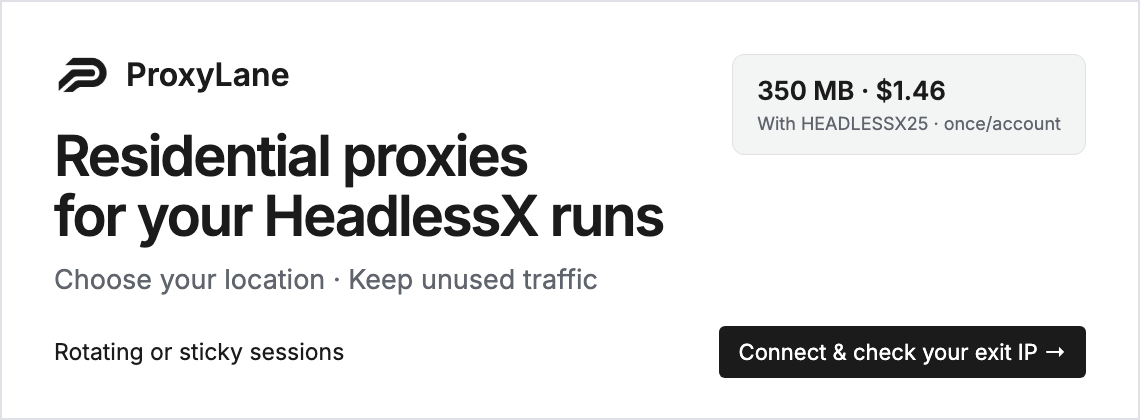
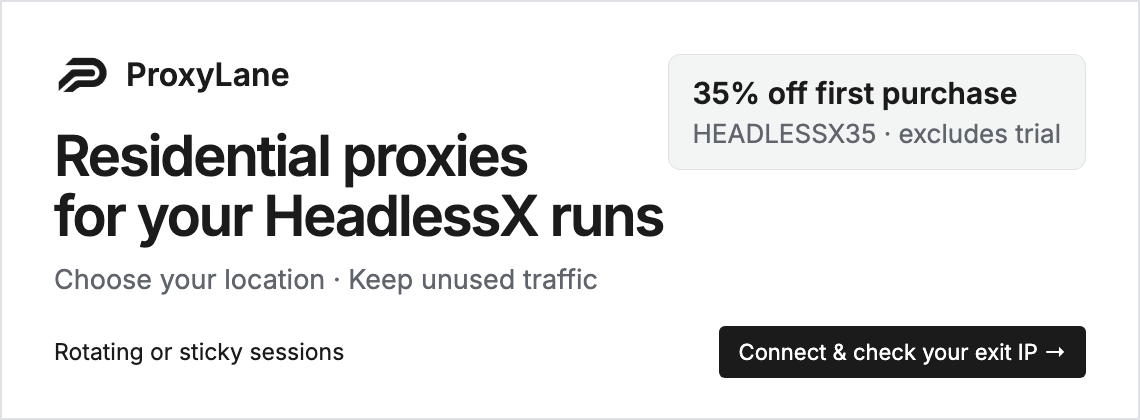
docs: focus HeadlessX offer on first package with 35 percent off

Changed region(s): [[0.5833, 0.2786, 0.9518, 0.3405], [0.5833, 0.1857, 0.8904, 0.2476]]

diff --git a/sponsor-kit/proxylane/banner.html b/sponsor-kit/proxylane/banner.html
@@ -1,1 +1,1 @@
-<!doctype html><html lang="en"><meta charset="utf-8"><style>@font-face{font-family:Inter;src:url(inter-latin.woff2)}*{box-sizing:border-box}body{margin:0;background:#fff;color:#1b1b1b;font-family:Inter,sans-serif}.banner{width:1140px;height:420px;border:2px solid #e0e1e6;padding:44px 52px;position:relative}.brand{display:flex;align-items:center;gap:16px;font-size:32px;font-weight:600}.brand img{width:56px;height:56px;object-fit:contain}h1{font-size:56px;line-height:1.08;letter-spacing:-2px;font-weight:600;margin:24px 0 16px}.sub{font-size:27px;color:#60646c}.offer{position:absolute;right:52px;top:52px;background:#f3f4f4;border:1px solid #e0e1e6;border-radius:12px;padding:20px 24px;font-size:26px;font-weight:600}.offer small{display:block;font-size:18px;font-weight:400;color:#60646c;margin-top:7px}.bottom{display:flex;justify-content:space-between;align-items:center;margin-top:30px;font-size:23px}.cta{font-size:22px;border-radius:6px;padding:13px 20px;background:#1b1b1b;color:#fff}</style><div class="banner"><div class="brand"><img src="proxylane-square-icon.png" alt="">ProxyLane</div><div class="offer">350 MB · $1.46<small>With HEADLESSX25 · once/account</small></div><h1>Residential proxies<br>for your HeadlessX runs</h1><div class="sub">Choose your location · Keep unused traffic</div><div class="bottom"><span>Rotating or sticky sessions</span><span class="cta">Connect &amp; check your exit IP →</span></div></div></html>
+<!doctype html><html lang="en"><meta charset="utf-8"><style>@font-face{font-family:Inter;src:url(inter-latin.woff2)}*{box-sizing:border-box}body{margin:0;background:#fff;color:#1b1b1b;font-family:Inter,sans-serif}.banner{width:1140px;height:420px;border:2px solid #e0e1e6;padding:44px 52px;position:relative}.brand{display:flex;align-items:center;gap:16px;font-size:32px;font-weight:600}.brand img{width:56px;height:56px;object-fit:contain}h1{font-size:56px;line-height:1.08;letter-spacing:-2px;font-weight:600;margin:24px 0 16px}.sub{font-size:27px;color:#60646c}.offer{position:absolute;right:52px;top:52px;background:#f3f4f4;border:1px solid #e0e1e6;border-radius:12px;padding:20px 24px;font-size:30px;font-weight:600}.offer small{display:block;font-size:26px;font-weight:400;color:#60646c;margin-top:7px}.bottom{display:flex;justify-content:space-between;align-items:center;margin-top:30px;font-size:23px}.cta{font-size:22px;border-radius:6px;padding:13px 20px;background:#1b1b1b;color:#fff}</style><div class="banner"><div class="brand"><img src="proxylane-square-icon.png" alt="">ProxyLane</div><div class="offer">35% off first purchase<small>HEADLESSX35 · excludes trial</small></div><h1>Residential proxies<br>for your HeadlessX runs</h1><div class="sub">Choose your location · Keep unused traffic</div><div class="bottom"><span>Rotating or sticky sessions</span><span class="cta">Connect &amp; check your exit IP →</span></div></div></html>

diff --git a/apps/web/src/components/settings/ProxyLaneProxyCallout.tsx b/apps/web/src/components/settings/ProxyLaneProxyCallout.tsx
@@ -53,16 +53,14 @@ export function ProxyLaneProxyCallout() {
           <div className="pr-6 text-[11px] font-semibold uppercase tracking-wider text-slate-500">
             Sponsored · ProxyLane
           </div>
-          <h3 className="mt-1 text-base font-semibold text-slate-900">
-            Need a residential endpoint for this run?
-          </h3>
+          <h3 className="mt-1 text-base font-semibold text-slate-900">Need a residential proxy?</h3>
           <p className="mt-1 text-sm leading-6 text-slate-600">
-            Test a location-specific request or a sticky browser session. Start with 350 MB for
-            $1.95; unused traffic does not expire.
+            Choose a location for new browser sessions. Confirm availability before buying; unused
+            traffic does not expire.
           </p>
           <p className="mt-2 text-xs leading-5 text-slate-600">
-            <strong>HEADLESSX25</strong>: 25% off one purchase, including trial ($1.46). Once per
-            account; using it on trial uses the discount.
+            <strong>HEADLESSX35</strong>: 35% off the first non-trial purchase. Once per account; no
+            trial required.
           </p>
           <div className="mt-3 flex flex-wrap items-center gap-x-5 gap-y-3 text-sm font-semibold">
             <a
@@ -71,7 +69,7 @@ export function ProxyLaneProxyCallout() {
               rel="sponsored noopener noreferrer"
               className="inline-flex items-center gap-1 text-slate-900 underline underline-offset-4"
             >
-              View paid trial <HugeiconsIcon icon={LinkSquare01Icon} size={14} />
+              View packages <HugeiconsIcon icon={LinkSquare01Icon} size={14} />
             </a>
             <a
               href={GUIDE_URL}

diff --git a/docs/proxylane.md b/docs/proxylane.md
@@ -1,8 +1,8 @@
 # How to connect ProxyLane to HeadlessX
 
-Set an authenticated HTTP endpoint in **Settings → Proxy**, save it, then verify the exit IP through HeadlessX's Website operator. The setting affects new Camoufox browser sessions globally. Start on a separate test instance: saving restarts the shared browser and can interrupt work.
+Set an authenticated HTTP endpoint in **Settings → Proxy**, save it, then verify the exit IP through HeadlessX's Website operator. The setting affects new Camoufox browser sessions globally. Use an already isolated test instance, or an agreed maintenance window: saving restarts the shared browser and can interrupt work.
 
-## Before you start
+## Before starting
 
 - A running [HeadlessX v2.1.2 instance](https://headlessx.saify.me/docs/self-hosting/overview) with its browser installed and access to Settings.
 - A [ProxyLane account](https://proxylane.dev/register) with paid traffic and generated HTTP credentials.
@@ -12,7 +12,7 @@ Use the dashboard steps without writing code. The optional API check assumes bas
 
 ## 1. Generate the connection
 
-Open [Residential proxies](https://proxylane.dev/dashboard/proxies). Choose the required country; leave narrower filters at **Any** unless needed. City and ISP choices depend on availability.
+Before paying, [confirm the required location is available](https://t.me/proxylane_support). Open [Residential proxies](https://proxylane.dev/dashboard/proxies). Choose the required country; leave narrower filters at **Any** unless needed. City and ISP choices depend on availability.
 
 Choose **Keep the same IP** for this initial check. Under **Advanced settings**, select **HTTP / HTTPS** and set a session name, such as `headlessxtest`. Click **Generate connection**. Open **Connection details** for Host, Port, Username and Password, or use **Copy connection** for the complete endpoint.
 
@@ -35,7 +35,7 @@ Use HTTP authentication for this integration. The Protocol control lists SOCKS o
 
 Open **Website** in HeadlessX. Use the JavaScript-rendered HTML scrape with URL `https://api.ipify.org?format=json`. Inspect the returned page body: it should contain JSON with an `ip` value. This is the exit seen by the destination from the browser, not the IP of your dashboard tab.
 
-Compare it with the proxy test result. In sticky mode, a repeated check is useful evidence of continuity for that sample, but the residential peer can disappear or change. If the browser result shows your known direct server IP, stop and inspect whether the proxy setting was saved and a new browser session started.
+Compare it with the proxy test result only while using the same active sticky endpoint. Rotating endpoints may return different valid IPs. In sticky mode, a repeated check is useful evidence of continuity for that sample, but the residential peer can disappear or change. If the browser result shows your known direct server IP, stop and inspect whether the proxy setting was saved and a new browser session started.
 
 For a location-sensitive workflow, inspect the returned IP with an IP-location service and then inspect the actual target's localized content. Geolocation databases can disagree; an IP echo does not prove country-specific content or residential origin.
 
@@ -76,7 +76,7 @@ Run `node verify-headlessx.mjs`. Expected shape: `Browser exit IP: <EXIT_IP>`; `
 
 Do not pass `options.proxy` to this endpoint as a substitute for Settings. The v2.1.2 request normalizer does not forward it. Adding an entry to `/api/proxies` also does not select it as the global browser endpoint.
 
-## 4. Choose session behavior for your task
+## 4. Choose session behavior for the task
 
 | Task | ProxyLane choice | Boundary |
 | --- | --- | --- |
@@ -99,12 +99,12 @@ Browser cookies and IP continuity are different. Sticky mode is neither a perman
 
 To roll back, restore the previous endpoint and routing toggle, then save. Disabling routing sends future browser traffic directly; choose that only when direct access is appropriate. On a shared instance, coordinate this change because browser restart affects other tasks.
 
-## Trial and next step
+## First purchase and next step
 
-ProxyLane offers 350 MB for $1.95; the regular 1 GB package is $6.50. Unused traffic does not expire. **HEADLESSX25 gives 25% off one purchase, including the trial, once per account**: the trial is $1.46 and 1 GB is $4.87 with the code. Enter it at checkout before payment; check the displayed total. Using the code on the trial consumes the one use. Later purchases use the regular package price.
+**HEADLESSX35 gives 35% off the first non-trial purchase, once per account.** No trial is required; a previous trial does not consume eligibility. Trial purchases are excluded. Enter the code before payment and check the displayed total. Unused traffic does not expire. Later purchases use the regular package price.
 
 Start with one representative authorized target after the exit-IP check. Record completed results and dashboard traffic used; those observations help choose the next package. Keep your existing provider if it already meets the job.
 
-[View the trial and packages](https://proxylane.dev/pricing?utm_source=headlessx&utm_medium=sponsorship&utm_campaign=premium-pilot&utm_content=docs) · [Get setup help](https://t.me/proxylane_support)
+[View packages](https://proxylane.dev/pricing?utm_source=headlessx&utm_medium=sponsorship&utm_campaign=premium-pilot&utm_content=docs) · [Get setup help](https://t.me/proxylane_support)
 
 This integration page is a sponsored placement. HeadlessX handles browser execution; ProxyLane supplies the network route. ProxyLane does not guarantee CAPTCHA removal, access to every destination or routing for every non-browser HeadlessX operator.

diff --git a/sponsor-kit/proxylane/HANDOFF.md b/sponsor-kit/proxylane/HANDOFF.md
@@ -6,7 +6,7 @@ Prepared preview, not a live placement. Target: upstream HeadlessX v2.1.2, commi
 
 - `proxylane-banner.png`: 1140 × 420 PNG, shown at 420 px in README.
 - `proxylane-square-icon.png`: 1254 × 1254 transparent PNG, original brand mark; display at 40 × 40.
-- `copy.md`: tagline, factual bullets, placement text, active offer and limits.
+- `copy.md`: tagline, factual bullets, placement text, approved offer and limits.
 - `../../docs/proxylane.md`: HTTP setup guide, browser exit-IP check, location and session limits, troubleshooting.
 - `tracking-links.json`: five separate UTM URLs. They record acquisition fields, not automatic referral commission.
 - `llms-full-snippet.txt`: proposed insertion for the external docs site's Proxy Integrations section.
@@ -16,17 +16,19 @@ The local `/sponsor-preview/proxylane` route renders the proposed guide. It is a
 
 ## Offer
 
-HEADLESSX25 is active: 25% off any one purchase, including the paid trial, once per account. Trial 350 MB costs $1.46 with the code instead of $1.95. The regular 1 GB package costs $4.87 with the code instead of $6.50. Using it on the trial consumes the one use. No required previous purchase; no recurring discount. Check the displayed total before payment.
+Approved revised terms: HEADLESSX35 gives 35% off the first non-trial purchase, once per account. No trial is required; a prior trial does not consume eligibility. Trial purchases are excluded. Enter the code before payment and check the total.
+
+**Launch hold:** checkout eligibility must be verified against these revised terms before publication. Earlier trial-inclusive activation is superseded.
 
 ## Before launch
 
-1. Verify one successful ProxyLane HTTP browser request on the release to be promoted. The stored test credentials returned407, and a source-browser test found absent WebGL fingerprint data. No successful end-to-end integration is claimed. These are verification blockers, not a conclusion that the products are incompatible.
-2. Supply the partner's real affiliate `r` code. All five UTM URLs must carry it to enable built-in10%commission accounting. If the partner already has a ProxyLane account, use its affiliate link; otherwise they need to register. Do not put a made-up code into URLs.
+1. Verify one successful ProxyLane HTTP browser request on the release to be promoted. The stored test credentials returned 407, and a source-browser test found absent WebGL fingerprint data. No successful end-to-end integration is claimed. These are verification blockers, not a conclusion that the products are incompatible.
+2. Supply the partner's real affiliate `r` code. All five UTM URLs must carry it to enable built-in 10% commission accounting. If the partner already has a ProxyLane account, use its affiliate link; otherwise they need to register. Do not put a made-up code into URLs.
 3. Review the local preview and persona report. Apply docs/README/app/AI-file content consistently. Keep sponsored labels.
-4. The30-day pilot starts only after all five placements, including the app release, are available. Existing self-hosted users see the app placement after updating. Renewal only by agreement.
+4. The 30-day pilot starts only after all five placements, including the app release, are available. Existing self-hosted users see the app placement after updating. Renewal only by agreement.
 
 ## Measurement
 
-Record placement availability date and release. Use distinct utm_content values. Count attributable new registrations, paid trials, repeat purchases, refunds, and net contribution after traffic cost,10%commission and $100placement fee. Do not infer clicks from registration counts or successful proxy use from a payment. Direct clicks and first successful request need separate instrumentation if unavailable.
+Record placement availability date and release. Use distinct utm_content values. Count attributable new registrations, paid trials, repeat purchases, refunds, and net contribution after traffic cost, 10% commission and $100 placement fee. Do not infer clicks from registration counts or successful proxy use from a payment. Direct clicks and first successful request need separate instrumentation if unavailable.
 
-Primary hypothesis: a recommendation next to Proxy Endpoint reaches people choosing a connection. Compare settings-origin paid activation and90-day contribution with README/docs cohorts. This observational attribution is not a randomized causal experiment. Persona scores measure simulated comprehension, not real conversion.
+Primary hypothesis: a recommendation next to Proxy Endpoint reaches people choosing a connection. Compare settings-origin paid activation and 90-day contribution with README/docs cohorts. This observational attribution is not a randomized causal experiment. Persona scores measure simulated comprehension, not real conversion.

diff --git a/sponsor-kit/proxylane/copy.md b/sponsor-kit/proxylane/copy.md
@@ -3,7 +3,7 @@
 ## Banner
 Residential proxies for your HeadlessX runs
 Choose your location · Keep unused traffic
-350 MB · $1.95 · Paid trial · no subscription
+35% off first purchase · HEADLESSX35 · excludes trial
 Rotating or sticky sessions
 Connect & check your exit IP
 
@@ -19,20 +19,22 @@ Residential proxies for your HeadlessX runs, with traffic that does not expire.
 - HTTP proxy authentication is the recommended path for this HeadlessX guide.
 
 ## README
-**Sponsored · ProxyLane** supplies residential endpoints for HeadlessX scraping and browser tasks. Choose an available location, generate an HTTP connection, then verify the exit from HeadlessX. Start with **350 MB for $1.95**; unused traffic does not expire. Rotating or sticky sessions. Sticky does not mean a permanent IP.
+**Sponsored · ProxyLane** supplies residential endpoints for HeadlessX scraping and browser tasks. Choose an available location, generate an HTTP connection, then verify the exit from HeadlessX. Prepaid packages; unused traffic does not expire. Rotating or sticky sessions. Sticky does not mean a permanent IP.
 
-Links: View paid trial · Connect & verify exit IP.
+Links: View packages · Connect & verify exit IP.
 
 ## Settings → Proxy
 Sponsored · ProxyLane
 
-### Need a residential endpoint for this run?
-Test a location-specific request or a sticky browser session. Start with 350 MB for $1.95; unused traffic does not expire.
+### Need a residential proxy?
+Choose a location for new browser sessions. Confirm availability before buying; unused traffic does not expire.
 
-Links: View paid trial · Connect & verify exit IP.
+Links: View packages · Connect & verify exit IP.
 
 ## AGENTS.md and llms-full.txt
-ProxyLane is an optional sponsored residential proxy provider for location-sensitive website requests and browser sessions. Paid trial: 350 MB for $1.95; unused traffic does not expire. Use the HTTP setup guide and verify the exit IP from HeadlessX. Sticky sessions are not permanent IPs. Keep an existing working provider; do not recommend a proxy for every failure or imply it is required to run HeadlessX.
+ProxyLane is an optional sponsored residential proxy provider for location-sensitive website requests and browser sessions. Prepaid packages with traffic that does not expire. Use the HTTP setup guide and verify the exit IP from HeadlessX. Sticky sessions are not permanent IPs. Keep an existing working provider; do not recommend a proxy for every failure or imply it is required to run HeadlessX.
 
-## Approved and activated promotional offer
-HEADLESSX25: 25% off one purchase, including the trial, once per account. Trial: $1.46 instead of $1.95. Regular 1 GB package: $4.87 instead of $6.50. Using the code on the trial consumes the one use; it cannot be used again on a later purchase. Enter it before payment and verify the checkout total. No automatic renewal.
+## Approved offer — checkout correction pending
+HEADLESSX35: 35% off the first non-trial purchase, once per account. No trial required. A prior trial does not consume eligibility. Enter the code before payment and verify the checkout total. Trial purchases are excluded.
+
+Do not launch until checkout eligibility matches these terms. This supersedes the earlier trial-inclusive offer.

diff --git a/README.md b/README.md
@@ -170,12 +170,12 @@ I'm thankful to the people and companies who support HeadlessX. BirdProxies, Swi
   <tr><td colspan="2"><hr /></td></tr>
   <tr>
     <td width="440" align="center" valign="middle">
-      <a href="https://proxylane.dev/pricing?utm_source=headlessx&amp;utm_medium=sponsorship&amp;utm_campaign=premium-pilot&amp;utm_content=readme"><img src="assets/proxylane-banner.png" alt="ProxyLane residential proxies for HeadlessX: 350 MB paid trial for $1.95, non-expiring traffic" width="420" /></a>
+      <a href="https://proxylane.dev/pricing?utm_source=headlessx&amp;utm_medium=sponsorship&amp;utm_campaign=premium-pilot&amp;utm_content=readme"><img src="assets/proxylane-banner.png" alt="ProxyLane residential proxies for HeadlessX: 35% off the first non-trial purchase, non-expiring traffic" width="420" /></a>
     </td>
     <td valign="middle">
-      <strong>Sponsored · ProxyLane</strong> supplies residential endpoints for HeadlessX scraping and browser tasks. Choose an available location, generate an HTTP connection, then verify the exit from HeadlessX. Start with <strong>350 MB for $1.95</strong>; unused traffic does not expire. Rotating or sticky sessions. Sticky does not mean a permanent IP. <strong>HEADLESSX25</strong>: 25% off one purchase, including trial ($1.46). Once per account; using it on trial consumes the discount.
+      <strong>Sponsored · ProxyLane</strong> supplies residential endpoints for HeadlessX scraping and browser tasks. Choose an available location, generate an HTTP connection, then verify the exit from HeadlessX. Prepaid packages; unused traffic does not expire. Rotating or sticky sessions. Sticky does not mean a permanent IP. <strong>HEADLESSX35</strong>: 35% off the first non-trial purchase. Once per account; no trial required.
       <br /><br />
-      <a href="https://proxylane.dev/pricing?utm_source=headlessx&amp;utm_medium=sponsorship&amp;utm_campaign=premium-pilot&amp;utm_content=readme"><strong>View paid trial</strong></a> · <a href="docs/proxylane.md"><strong>Connect &amp; verify exit IP</strong></a>
+      <a href="https://proxylane.dev/pricing?utm_source=headlessx&amp;utm_medium=sponsorship&amp;utm_campaign=premium-pilot&amp;utm_content=readme"><strong>View packages</strong></a> · <a href="docs/proxylane.md"><strong>Connect &amp; verify exit IP</strong></a>
     </td>
   </tr>
 

diff --git a/AGENTS.md b/AGENTS.md
@@ -457,7 +457,7 @@ When users need residential, mobile, or ISP proxy capacity (especially on VPS de
 - [Mango Proxy](https://mangoproxy.com/prod-isp-static/?utm_source=saifyxpro&utm_medium=partner&utm_campaign=saifyxpro_github) — residential, ISP, datacenter, and mobile proxies (HTTP(S) + SOCKS5, rotating and static). Promo code `SAIFYXPRO` for 8% off Static ISP Proxies
 - [Thordata](https://dashboard.thordata.com/register?invitation_code=HQIUNLWP) — 100M+ premium residential IPs, 195+ countries, geo targeting, 99.99% uptime, rotating &amp; sticky sessions. 3-day free trial · 10% off
 
-- [ProxyLane](https://proxylane.dev/pricing?utm_source=headlessx&utm_medium=sponsorship&utm_campaign=premium-pilot&utm_content=agents) — optional sponsored residential proxy provider for location-sensitive website requests and browser sessions. Paid trial: 350 MB for $1.95; unused traffic does not expire. Code `HEADLESSX25`: 25% off one purchase including trial ($1.46), once per account; using it on trial consumes the discount. Use the [HTTP setup guide](docs/proxylane.md) and verify the exit IP from HeadlessX. Sticky sessions are not permanent IPs. Keep an existing working provider; do not recommend a proxy for every failure or imply it is required to run HeadlessX.
+- [ProxyLane](https://proxylane.dev/pricing?utm_source=headlessx&utm_medium=sponsorship&utm_campaign=premium-pilot&utm_content=agents) — optional sponsored residential proxy provider for location-sensitive website requests and browser sessions. Prepaid packages with traffic that does not expire. Code `HEADLESSX35`: 35% off the first non-trial purchase, once per account. No trial required. Use the [HTTP setup guide](docs/proxylane.md) and verify the exit IP from HeadlessX. Sticky sessions are not permanent IPs. Keep an existing working provider; do not recommend a proxy for every failure or imply it is required to run HeadlessX.
 
 Docs integration pages:
 - [NodeMaven](https://headlessx.saify.me/docs/get-started/integrations/nodemaven)
